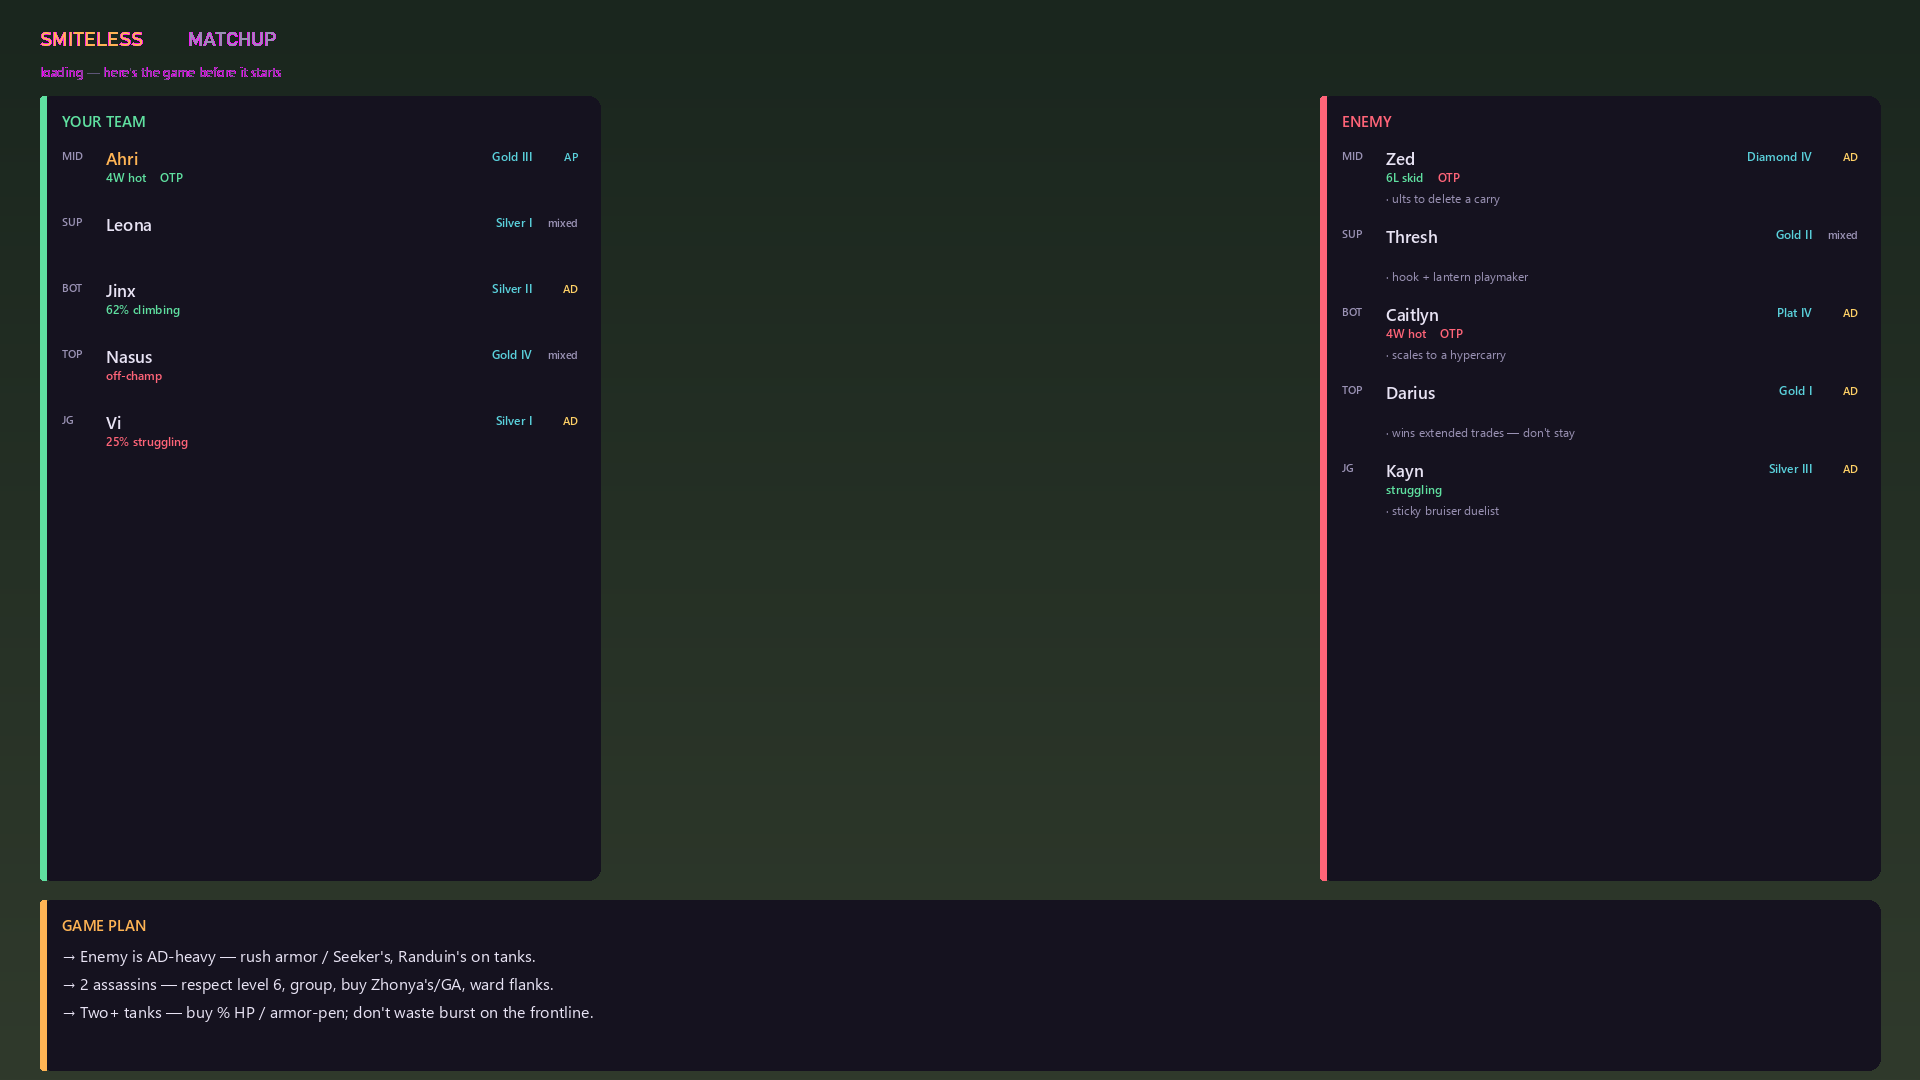
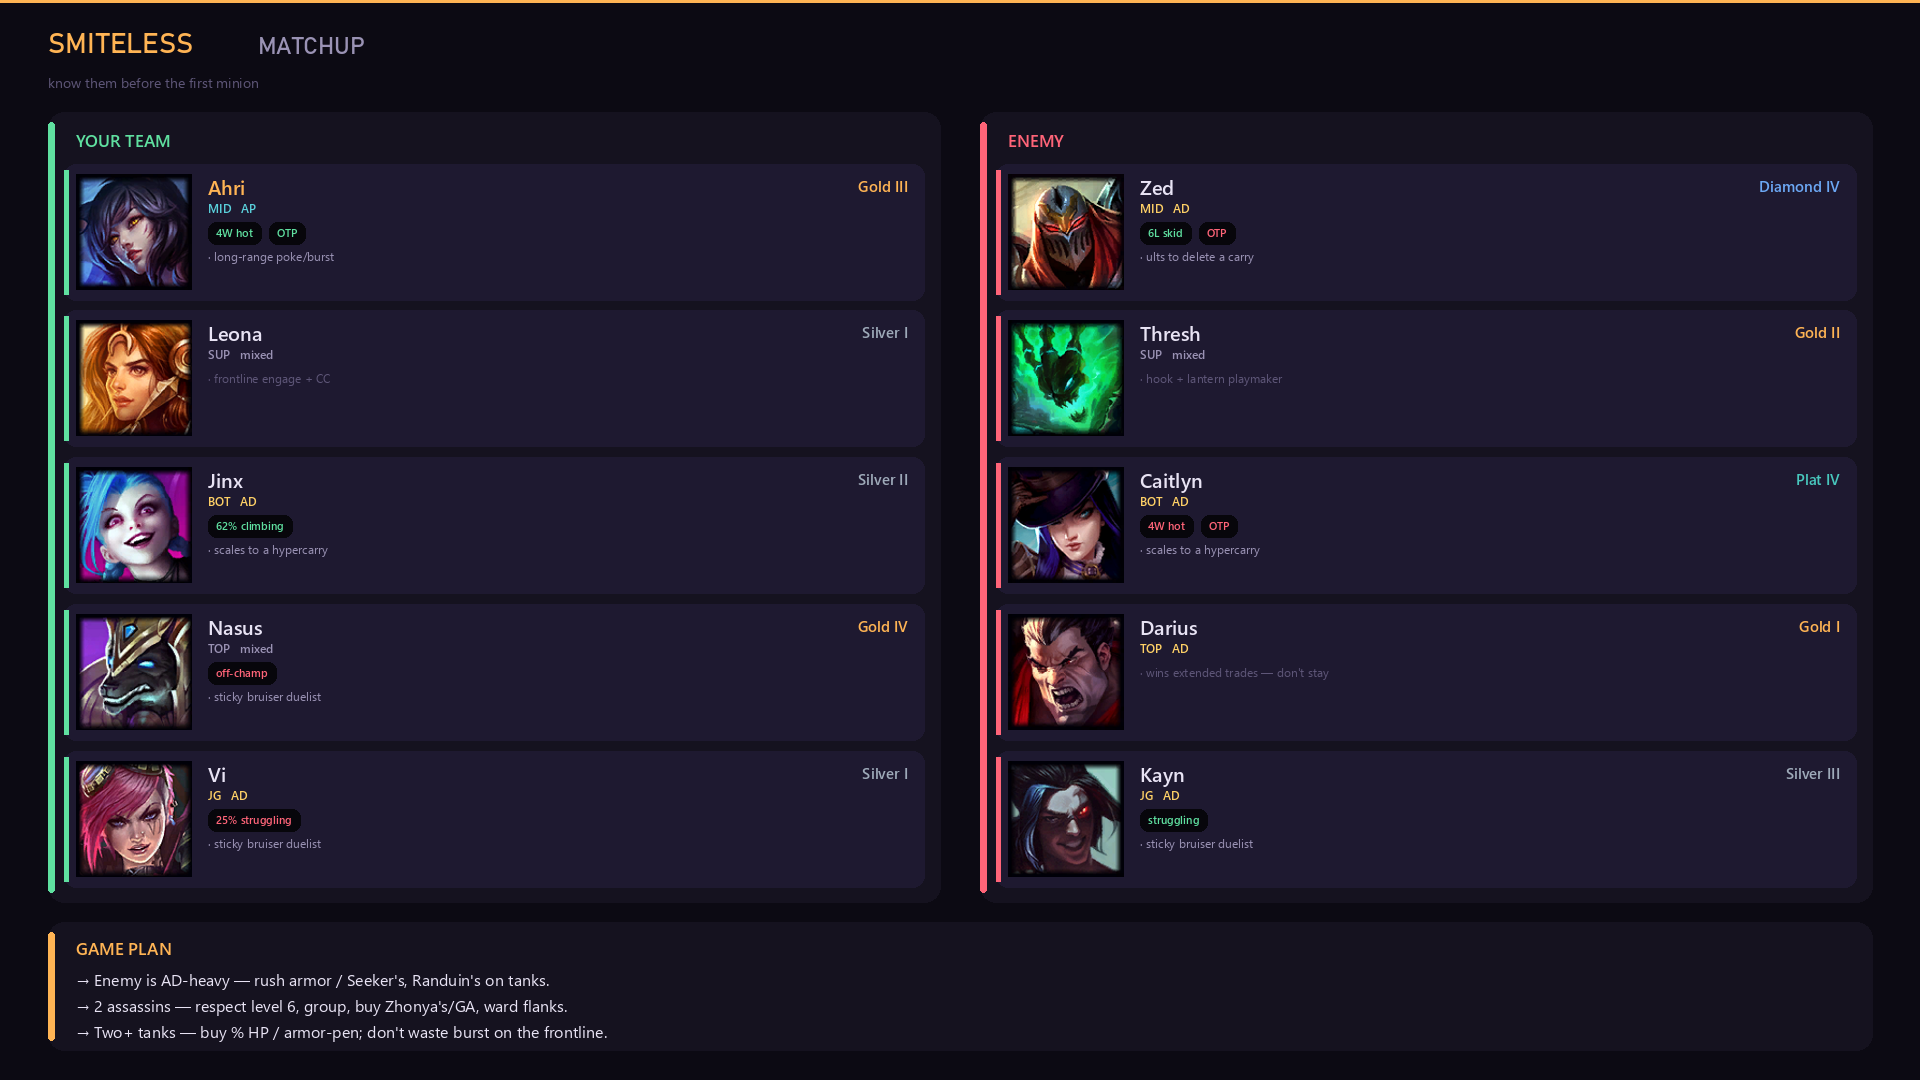
Loading UI: champion-art redesign + fix disappear-mid-load
Redesign: the flat text columns are gone. Each player is now a Duskfall card
with their CHAMPION PORTRAIT (smitecard.get_icon, disk-cached), name, role +
damage, a tier-colored rank badge, tag pills, and the champ read — two railed
team panels + a GAME PLAN footer, on a full dark backdrop. Icons warm in the
fetch worker and pop in on a forced redraw; a strictly-cached _cached_icon in
render never downloads, so drawing never blocks.

Disappear-mid-load fix: the exit signal was ":2999 responds", but it starts
answering (gameTime~0) while you're STILL on the load screen -> the overlay
closed early. Now it exits on the game CLOCK running (gameTime > 1), the real
"past the load screen" signal. tick's show/hide is now driven by `want`
independent of render, so a transient blip can't wedge it hidden.

diff --git a/ui/smiteload.py b/ui/smiteload.py
@@ -31,72 +31,120 @@ from smitedead import (_wfont, _dfont, _wrap, _card, _make_click_through, game_m
                        CHROMA_HEX, C_TXT, C_MUTED, C_FAINT, C_EMBER, C_ARC, C_GOOD, C_BAD,
                        C_WARN, C_INFO, C_SURF)
 
+import smitecard as sc                              # champion art loaders (get_icon / get_splash)
 _user32 = ctypes.windll.user32
 _DMG_C = {"AD": C_WARN, "AP": C_ARC, "mixed": C_MUTED}
 _TONE_C = {"good": C_GOOD, "bad": C_BAD, "neutral": C_MUTED}
+C_VOID = skin.rgb(skin.VOID); C_RAISED = skin.rgb(skin.RAISED); C_SUNKEN = skin.rgb(skin.SUNKEN)
+C_LINE = skin.rgb(skin.LINE)
+_TIER_COL = {"iron": (150, 130, 120), "bronze": (176, 120, 84), "silver": (158, 170, 185),
+             "gold": skin.rgb(skin.EMBER), "plat": (72, 200, 190), "platinum": (72, 200, 190),
+             "emerald": (74, 200, 128), "diamond": (108, 168, 245), "master": (196, 112, 232),
+             "gm": (232, 96, 96), "grandmaster": (232, 96, 96), "chall": (128, 205, 255),
+             "challenger": (128, 205, 255)}
+
+
+def _tier_color(rank):
+    return _TIER_COL.get((rank or "").split()[0].lower(), C_MUTED) if rank else C_MUTED
+
+
+def _cached_icon(dd, cid, size):
+    """Champion square icon ONLY if already cached (memory/disk) — never downloads, so it can't
+    block the render thread. The fetch worker warms the cache; misses just render a placeholder."""
+    ck = (cid, size)
+    if ck in sc._ICONS:
+        return sc._ICONS[ck]
+    key = dd.get("id2key", {}).get(cid)
+    if not key:
+        return None
+    fp = os.path.join(sc.ICONCACHE, dd["ver"], key + ".png")
+    if os.path.exists(fp):
+        try:
+            from PIL import Image
+            im = Image.open(fp).convert("RGBA").resize((size, size))
+            sc._ICONS[ck] = im
+            return im
+        except Exception:
+            return None
+    return None
 
 
 def render_frame(dd, b, W, H):
     from PIL import Image, ImageDraw
-    img = Image.new("RGB", (W, H), (255, 0, 255))
+    img = Image.new("RGB", (W, H), C_VOID)         # full dark backdrop — loading is a takeover
     d = ImageDraw.Draw(img)
-    s = max(0.6, min(1.4, H / 1080.0))
+    s = max(0.72, min(1.5, H / 1080.0))
     def S(v): return int(v * s)
-    M = S(40)
-    colw = S(560)
+    M, gap = S(48), S(40)
+    colw = (W - 2 * M - gap) // 2
 
-    d.text((M, S(30)), "SMITELESS", font=_dfont(S(20)), fill=C_EMBER)
-    d.text((M + S(148), S(30)), "MATCHUP", font=_dfont(S(20)), fill=C_MUTED)
-    d.text((M, S(62)), "loading — here's the game before it starts", font=_wfont(S(13)), fill=C_FAINT)
+    # subtle top hairline + brand
+    d.rectangle([0, 0, W, S(2)], fill=skin.rgb(skin.EMBER))
+    d.text((M, S(30)), "SMITELESS", font=_dfont(S(28)), fill=C_EMBER)
+    d.text((M + S(210), S(34)), "MATCHUP", font=_dfont(S(24)), fill=C_MUTED)
+    sub = "scouting the lobby…" if not b.get("scouted") else "know them before the first minion"
+    d.text((M, S(72)), sub, font=_wfont(S(14)), fill=C_FAINT)
 
-    def _column(x, title, rows, title_col, detailed):
-        _card(d, x, S(96), colw, H - S(96) - S(200), title_col)
-        px = x + S(22)
-        d.text((px, S(110)), title, font=_wfont(S(15), True), fill=title_col)
-        yy = S(146)
-        rowh = S(78) if detailed else S(66)
-        for r in rows:
-            d.text((px, yy + S(2)), r["role"], font=_wfont(S(11), True), fill=C_MUTED)
-            nmcol = C_EMBER if r.get("me") else C_TXT
-            d.text((px + S(44), yy), (r["champ"] or "?")[:15], font=_wfont(S(17), True), fill=nmcol)
-            rx2 = x + colw - S(22)
-            dchip = r["dmg"]
-            d.text((rx2 - d.textlength(dchip, font=_wfont(S(11), True)), yy + S(3)), dchip,
-                   font=_wfont(S(11), True), fill=_DMG_C.get(dchip, C_MUTED))
-            if r.get("rank"):
-                d.text((rx2 - S(46) - d.textlength(r["rank"], font=_wfont(S(12), True)), yy + S(2)),
-                       r["rank"], font=_wfont(S(12), True), fill=C_ARC)
-            # scout tags line (rank/tilt/OTP/off-champ), colored relative to YOU
-            cxp = px + S(44)
-            ptags = r.get("ptags") or []
-            for txt, tone in ptags:
-                f = _wfont(S(12), True)
-                d.text((cxp, yy + S(23)), txt, font=f, fill=_TONE_C.get(tone, C_MUTED))
-                cxp += d.textlength(txt, font=f) + S(14)
-            if not ptags and r.get("rank") == "":       # not scouted -> at least the champ read
-                if r.get("phrases"):
-                    d.text((px + S(44), yy + S(23)), "· " + r["phrases"][0], font=_wfont(S(12)),
-                           fill=C_FAINT)
-            # champ good/bad phrase (enemies get one line even when scouted)
-            if detailed and r.get("phrases"):
-                d.text((px + S(44), yy + S(44)), "· " + r["phrases"][0], font=_wfont(S(12)),
-                       fill=C_MUTED)
-            yy += rowh
+    top = S(112)
+    pnl_h = H - top - S(178)
 
-    _column(M, "YOUR TEAM", b.get("allies") or [], C_GOOD, detailed=False)
-    _column(W - M - colw, "ENEMY", b.get("enemies") or [], C_BAD, detailed=True)
+    def _pill(x, y, txt, col, f):
+        w = d.textlength(txt, font=f)
+        d.rounded_rectangle([x, y, x + w + S(16), y + S(22)], S(8), fill=C_SUNKEN)
+        d.text((x + S(8), y + S(3)), txt, font=f, fill=col)
+        return x + w + S(16) + S(8)
 
-    # GAME PLAN — the synthesis, wide across the bottom
+    def _panel(x, title, rows, rail):
+        d.rounded_rectangle([x, top, x + colw, top + pnl_h], S(16), fill=C_SURF)
+        d.rounded_rectangle([x, top + S(10), x + S(6), top + pnl_h - S(10)], S(3), fill=rail)
+        d.text((x + S(28), top + S(16)), title, font=_wfont(S(17), True), fill=rail)
+        rowh = (pnl_h - S(56)) / max(1, len(rows))
+        for i, r in enumerate(rows):
+            _player(x + S(16), top + S(52) + i * rowh, colw - S(32), rowh - S(10), r, rail)
+
+    def _player(x, y, w, h, r, teamcol):
+        x, y, h = int(x), int(y), int(h)
+        d.rounded_rectangle([x, y, x + w, y + h], S(12), fill=C_RAISED)
+        d.rectangle([x, y + S(6), x + S(4), y + h - S(6)], fill=teamcol)
+        isz = h - S(20)
+        ic = _cached_icon(dd, r.get("cid", 0), isz)
+        ix, iy = x + S(12), y + S(10)
+        if ic:
+            img.paste(ic, (ix, iy), ic)
+        else:
+            d.rounded_rectangle([ix, iy, ix + isz, iy + isz], S(6), fill=C_SUNKEN)
+        tx = ix + isz + S(16)
+        d.text((tx, y + S(9)), (r["champ"] or "?")[:14], font=_wfont(S(20), True),
+               fill=(C_EMBER if r.get("me") else C_TXT))
+        d.text((tx, y + S(36)), f"{r.get('role','')}   {r.get('dmg','')}",
+               font=_wfont(S(12), True), fill=_DMG_C.get(r.get("dmg"), C_MUTED))
+        if r.get("rank"):
+            rc = _tier_color(r["rank"])
+            rw = d.textlength(r["rank"], font=_wfont(S(15), True))
+            d.text((x + w - S(16) - rw, y + S(11)), r["rank"], font=_wfont(S(15), True), fill=rc)
+        # tags as pills
+        cy = y + S(58)
+        cx = tx
+        for txt, tone in (r.get("ptags") or [])[:3]:
+            cx = _pill(cx, cy, txt, _TONE_C.get(tone, C_MUTED), _wfont(S(11), True))
+        if not (r.get("ptags")) and r.get("phrases"):     # pre-scout: show the champ read instead
+            d.text((tx, cy + S(2)), "· " + r["phrases"][0], font=_wfont(S(12)), fill=C_FAINT)
+        elif r.get("phrases") and h > S(92):
+            d.text((tx, y + S(84)), "· " + r["phrases"][0], font=_wfont(S(12)), fill=C_MUTED)
+
+    _panel(M, "YOUR TEAM", b.get("allies") or [], C_GOOD)
+    _panel(M + colw + gap, "ENEMY", b.get("enemies") or [], C_BAD)
+
+    # GAME PLAN footer
     plan = b.get("plan") or []
-    ph = S(170)
-    py = H - S(180)
-    pw = W - 2 * M
-    _card(d, M, py, pw, ph, C_EMBER)
-    d.text((M + S(22), py + S(14)), "GAME PLAN", font=_wfont(S(15), True), fill=C_EMBER)
-    yy = py + S(44)
-    for line in plan:
-        d.text((M + S(22), yy), "→ " + line, font=_wfont(S(16)), fill=C_TXT)
-        yy += S(28)
+    py, pw = H - S(158), W - 2 * M
+    d.rounded_rectangle([M, py, M + pw, py + S(128)], S(16), fill=C_SURF)
+    d.rounded_rectangle([M, py + S(10), M + S(6), py + S(118)], S(3), fill=C_EMBER)
+    d.text((M + S(28), py + S(14)), "GAME PLAN", font=_wfont(S(17), True), fill=C_EMBER)
+    yy = py + S(46)
+    for line in plan[:3]:
+        d.text((M + S(28), yy), "→ " + line, font=_wfont(S(16)), fill=C_TXT)
+        yy += S(26)
     return img
 
 
@@ -117,14 +165,16 @@ def _log(msg):
         pass
 
 
-def _live_up():
-    """True once the live game (:2999) is serving — i.e. the game world has loaded and you're
-    past the loading screen. The loading screen is exactly the window where this is FALSE."""
+def _game_time():
+    """Live game clock (seconds) from :2999, or -1 if it's not serving. IMPORTANT: :2999 starts
+    answering with gameTime~0 while you're STILL on the loading screen, so 'is it serving' is the
+    wrong exit signal (it closed the overlay mid-load). The clock only advances once the game has
+    actually started — so gameTime > ~1 is the real 'past the loading screen' signal."""
     try:
-        lb.http("https://127.0.0.1:2999/liveclientdata/gamestats", timeout=1, insecure=True)
-        return True
+        d = lb.http("https://127.0.0.1:2999/liveclientdata/gamestats", timeout=1, insecure=True)
+        return float(d.get("gameTime", 0.0)) if isinstance(d, dict) else 0.0
     except Exception:
-        return False
+        return -1.0
 
 
 def _gameflow_phase():
@@ -181,15 +231,27 @@ def main():
         except Exception:
             pass
 
+    def _warm_icons(bf):
+        for r in (bf.get("allies") or []) + (bf.get("enemies") or []):
+            try:
+                sc.get_icon(dd, r.get("cid", 0), 96)         # downloads the disk file (any size)
+            except Exception:
+                pass
+
     def _fetch():
         # ALL network work lives here, OFF the poll/render loop, so the overlay is never blocked.
         # Phase 1: champs + tags + plan (fast, no Riot API) -> the overlay appears immediately.
-        # Phase 2: per-player rank/OTP scout (slow, rate-limited) -> fills in when ready.
+        # Phase 2: warm champion portraits, then force a redraw so the art pops in.
+        # Phase 3: per-player rank/OTP scout (slow, rate-limited) -> fills in when ready.
         try:
             fast = ll.brief(dd, scout=False)
             if fast:
                 state["brief"] = fast
                 _log("fast brief READY (champs/tags/plan) -> showing")
+                _warm_icons(fast)
+                if state["run"]:
+                    state["brief"] = dict(fast)              # new object -> tick re-renders w/ art
+                    _log("icons warmed -> redraw")
         except Exception as e:
             _log(f"fast brief ERROR {type(e).__name__}: {e}")
         try:
@@ -202,25 +264,33 @@ def main():
 
     def poll():
         n = errs = 0
+        seen_load = False
         while state["run"]:
-            live = _live_up()
+            gt = _game_time()                              # >1 = game running; ~0 = still loading; -1 = down
             gf = _gameflow_phase()
             errs = (errs + 1) if gf == "" else 0           # "" = LCU hiccup; only real after a streak
-            # LOADING = the game process is up (GameStart/InProgress/Reconnect) but the live
-            # game isn't serving yet. That whole span is the loading screen.
-            loading = (gf in ("GameStart", "InProgress", "Reconnect")) and not live
+            started = gt > 1.0                             # the game clock is running -> past the load screen
+            # LOADING = game process up (GameStart/InProgress/Reconnect) AND not started yet.
+            loading = (gf in ("GameStart", "InProgress", "Reconnect")) and not started
+            if loading:
+                seen_load = True
             n += 1
-            if n <= 4 or loading or n % 10 == 0:           # log the interesting transitions
-                _log(f"poll gf={gf!r} live={live} loading={loading} want={state['want']} shown={state['shown']} brief={state['brief'] is not None} fetching={state['fetching']}")
+            if n <= 4 or loading or n % 12 == 0:
+                _log(f"poll gf={gf!r} gt={gt:.1f} started={started} loading={loading} want={state['want']} shown={state['shown']} fetching={state['fetching']}")
+            if started:                                    # game actually began -> we're done
+                _done(f"game started (gt={gt:.1f})")
+                return
             if loading:
                 state["want"] = True
                 if not state["fetching"]:                  # kick the fetch ONCE, on a worker thread
                     state["fetching"] = True
                     threading.Thread(target=_fetch, daemon=True).start()
-            elif live or errs >= 3 or gf in ("None", "Lobby", "Matchmaking", "ReadyCheck",
-                                             "WaitingForStats", "PreEndOfGame", "EndOfGame"):
-                # game started, dodge/requeue, or client gone -> this run is over
-                _done(f"over (gf={gf!r} live={live} errs={errs})")
+            elif seen_load and (errs >= 4 or gf in ("None", "Lobby", "Matchmaking", "ReadyCheck",
+                                                    "WaitingForStats", "PreEndOfGame", "EndOfGame")):
+                _done(f"left after load (gf={gf!r})")       # dodge/crash after we'd been loading
+                return
+            elif not seen_load and gf in ("None", "Lobby", "Matchmaking", "EndOfGame") and errs == 0:
+                _done(f"no game (gf={gf!r})")               # dropped back to lobby before ever loading
                 return
             else:
                 state["want"] = False                      # ChampSelect -> armed and waiting
@@ -237,17 +307,17 @@ def main():
             return
         b = state["brief"]
         if state["want"] and b:
-            if b is not state["rendered"]:              # (re)draw on first show AND on scout upgrade
+            if b is not state["rendered"]:              # (re)draw on first show AND on any upgrade
                 frame = render_frame(dd, b, W, H)
                 ph = ImageTk.PhotoImage(frame)
                 label.configure(image=ph)
                 label.image = ph
                 state["rendered"] = b
-                if not state["shown"]:
-                    root.deiconify()
-                    _make_click_through(toplevel_hwnd(root.winfo_id()))
-                    state["shown"] = True
-                    _log("overlay SHOWN")
+            if not state["shown"]:                      # show/hide is driven by want, INDEPENDENT
+                root.deiconify()                        # of render — so a blip can't wedge it hidden
+                _make_click_through(toplevel_hwnd(root.winfo_id()))
+                state["shown"] = True
+                _log("overlay SHOWN")
         elif state["shown"] and not state["want"]:
             root.withdraw()
             state["shown"] = False

diff --git a/core/lolload.py b/core/lolload.py
@@ -168,7 +168,7 @@ def brief(dd, key=None, scout=True):
         out = []
         for row in rows:
             cid = row["champ_id"]
-            rec = {"champ": dd.get("id2name", {}).get(cid, "?"), "role": row["role"],
+            rec = {"champ": dd.get("id2name", {}).get(cid, "?"), "cid": cid, "role": row["role"],
                    "dmg": ltag.dmg_type(dd, cid), "phrases": ltag.phrases(dd, cid),
                    "rank": "", "ptags": [], "me": row["me"]}
             if key:
